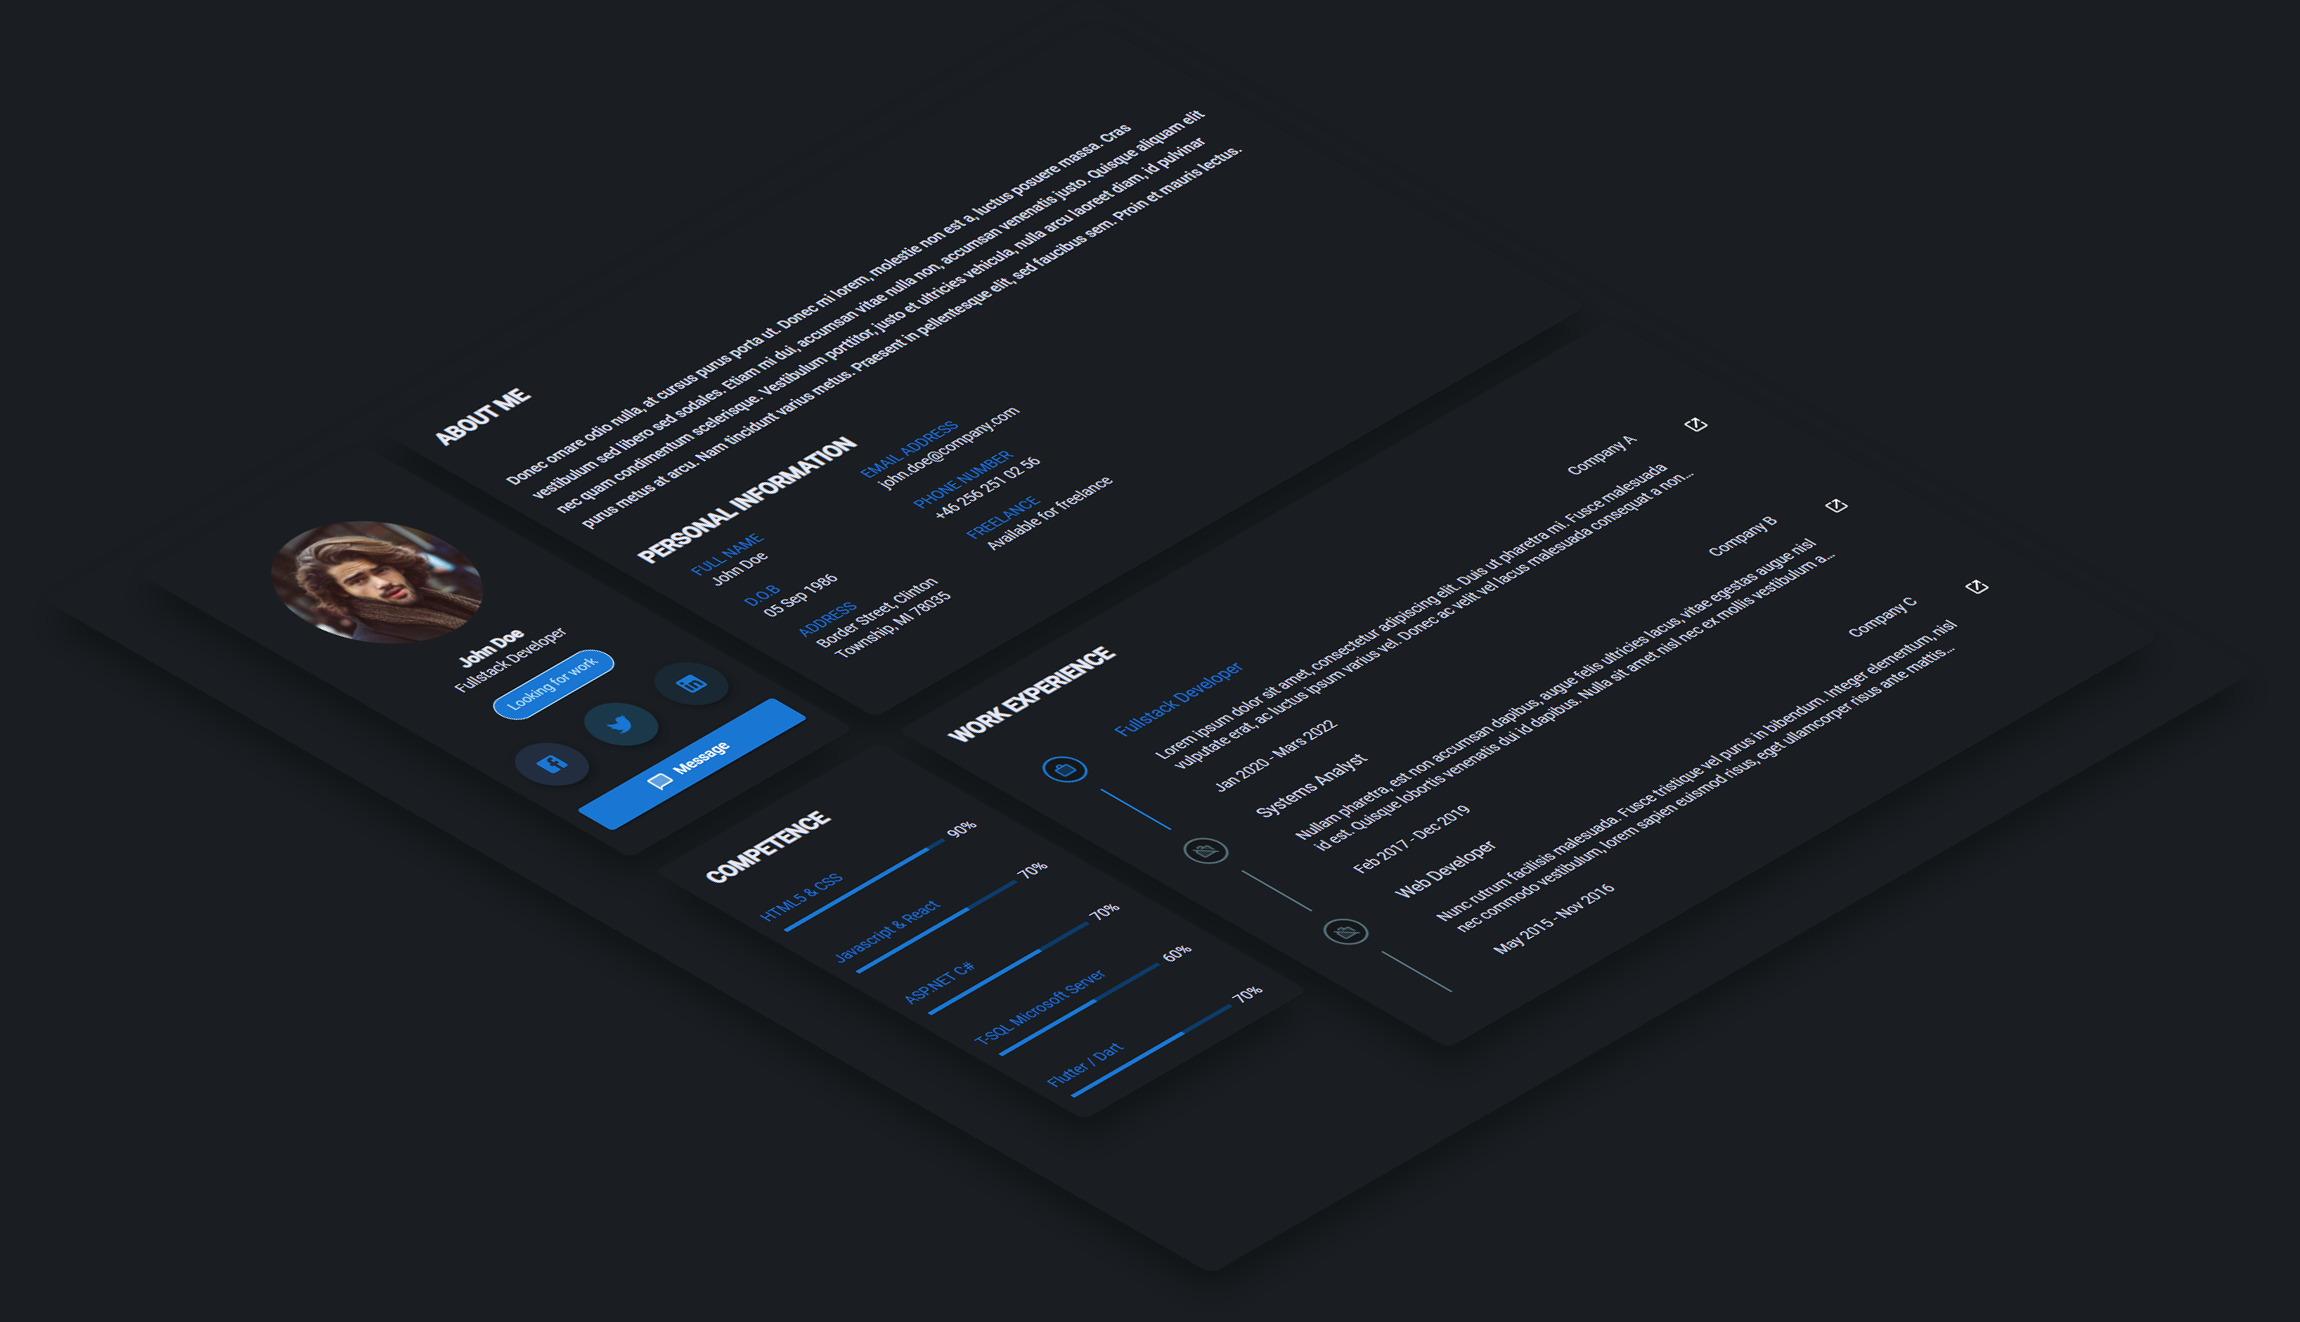
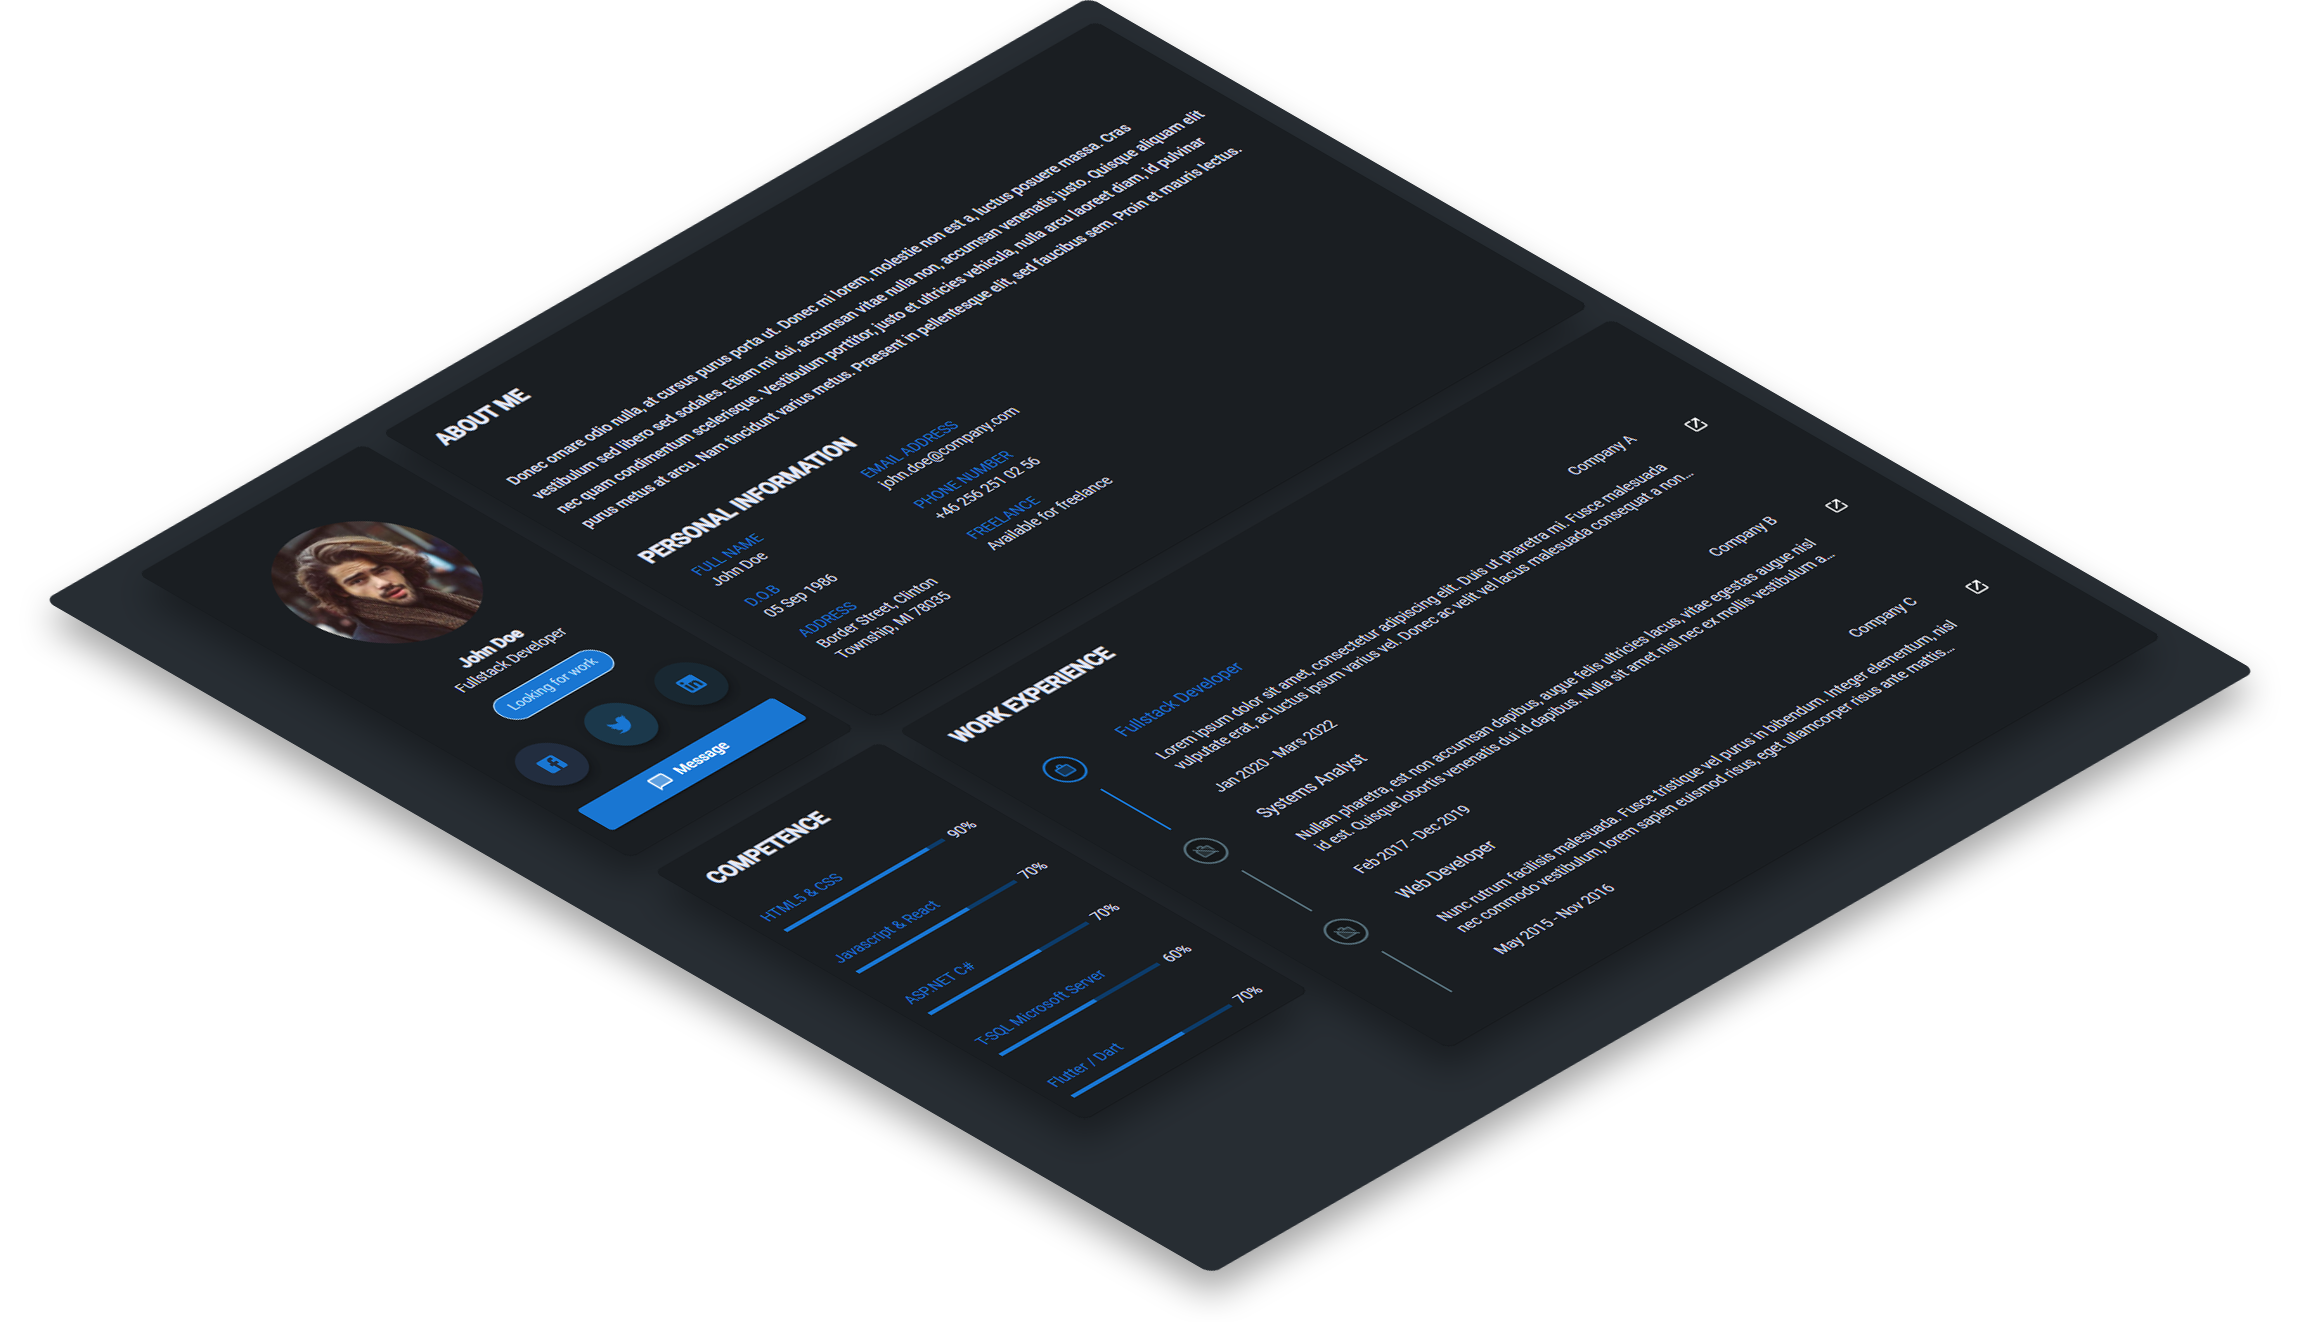
Fixed png transparency of image

diff --git a/mui-resume-app/src/views/pages/landing/Header.tsx b/mui-resume-app/src/views/pages/landing/Header.tsx
@@ -246,7 +246,7 @@ const HeaderPage = () => {
           <Box sx={{ position: 'relative', mt: 0 }}>
             <HeaderImage
               src={theme.palette.mode === 'dark' ? resumeDark : resumeLight}
-              alt="Berry"
+              alt="Resume"
             />
             <Box
               sx={{
@@ -269,7 +269,7 @@ const HeaderPage = () => {
               >
                 <HeaderAnimationImage
                   src={theme.palette.mode === 'dark' ? langDark : langLight}
-                  alt="Berry"
+                  alt="Resume"
                 />
               </motion.div>
             </Box>
